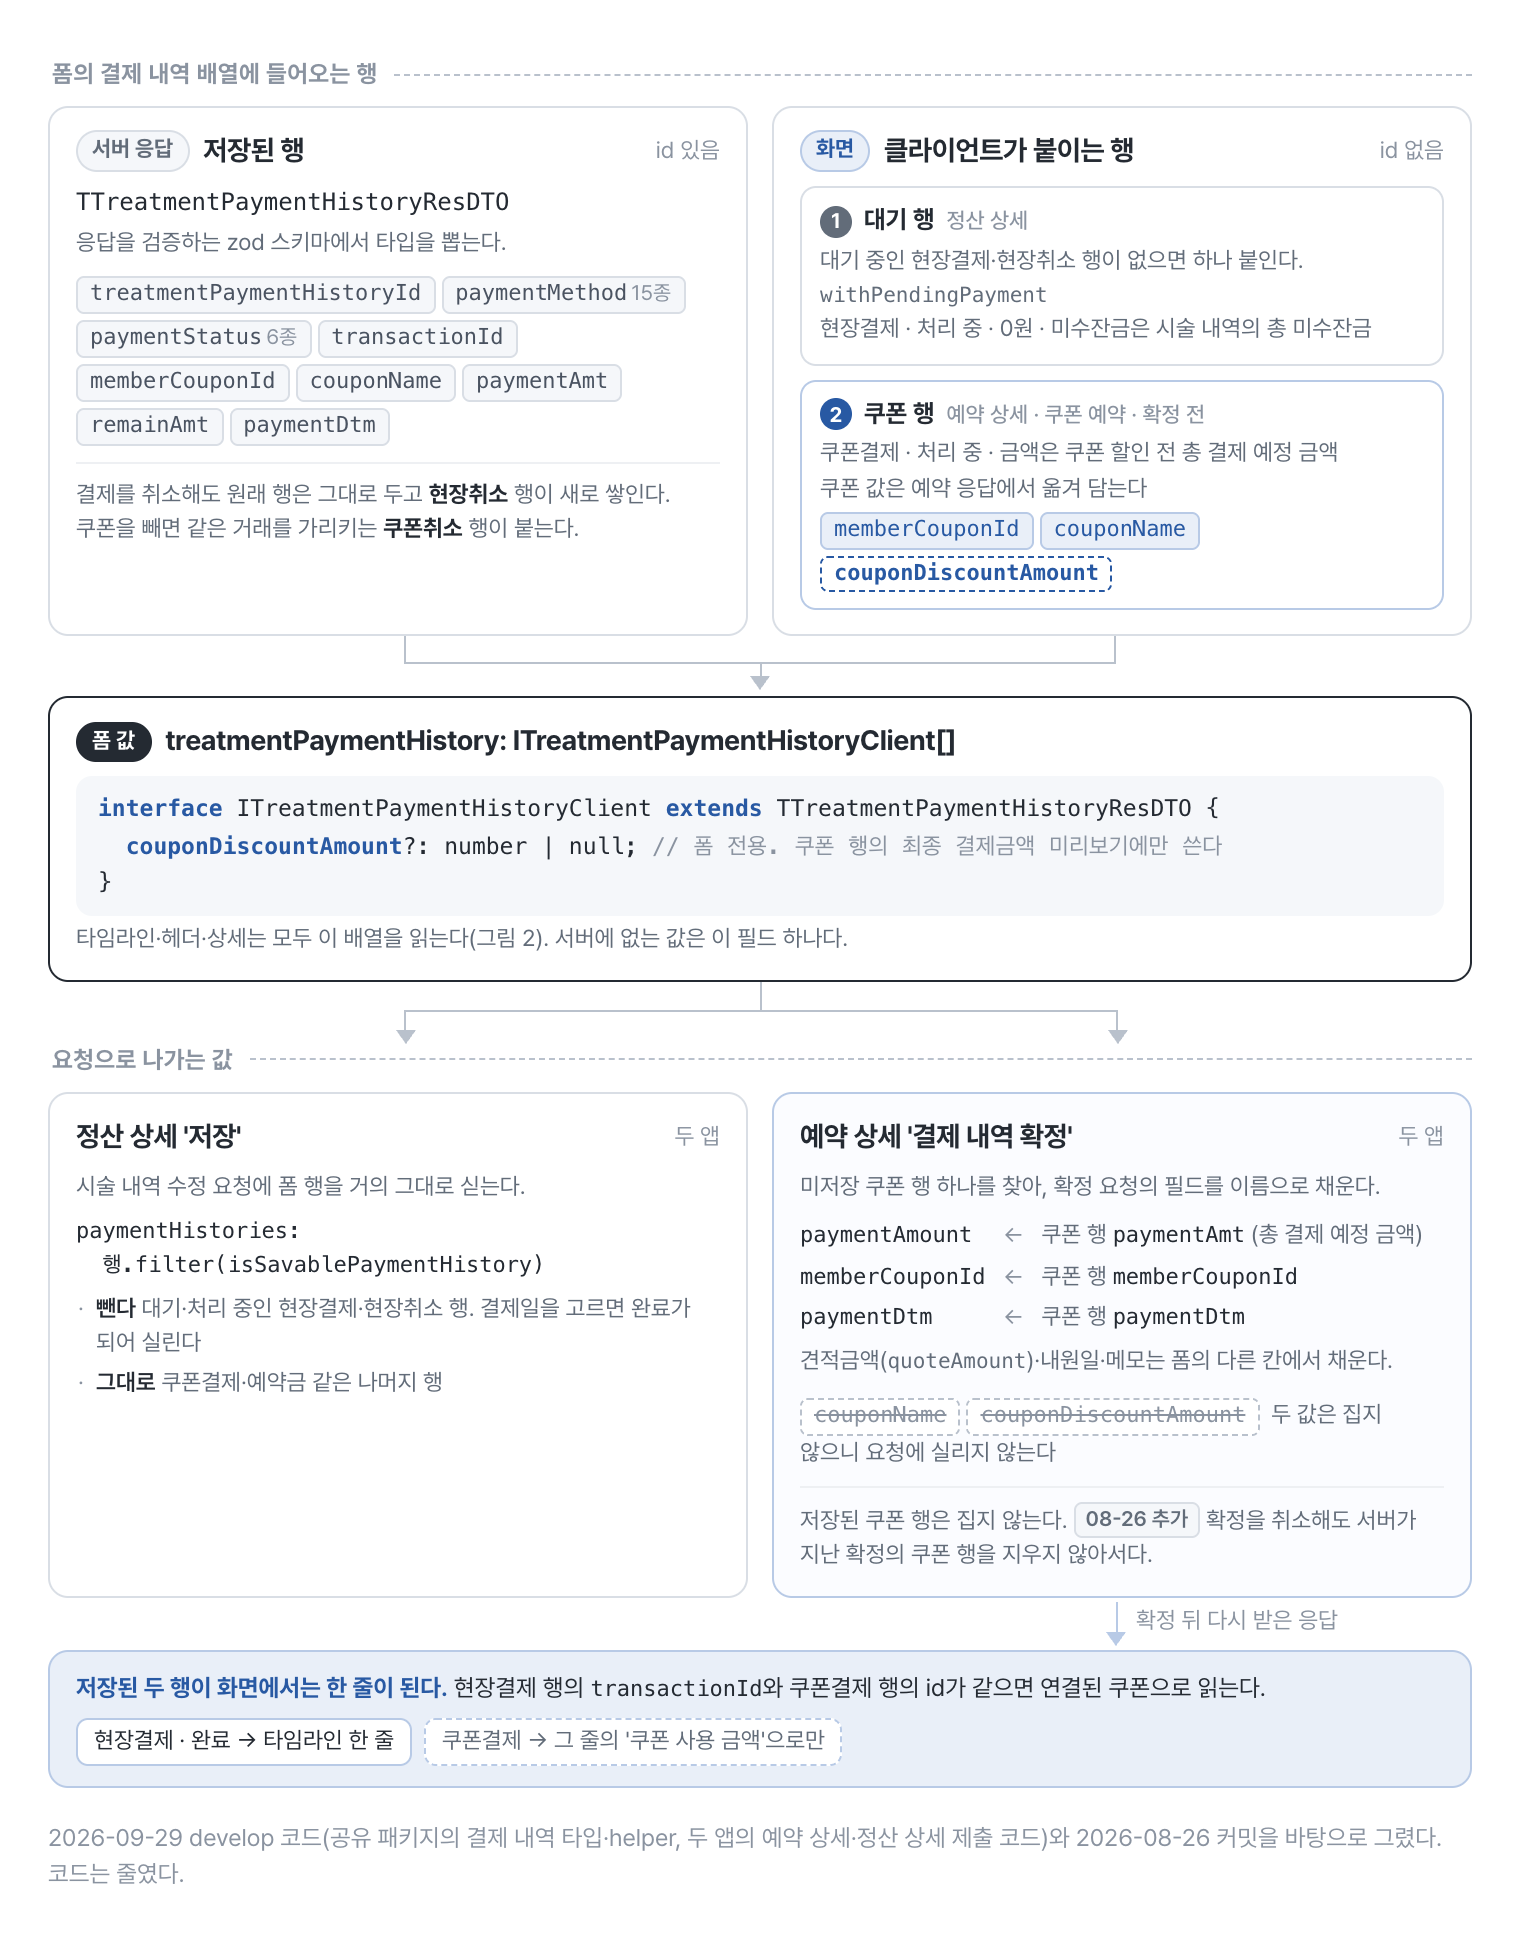
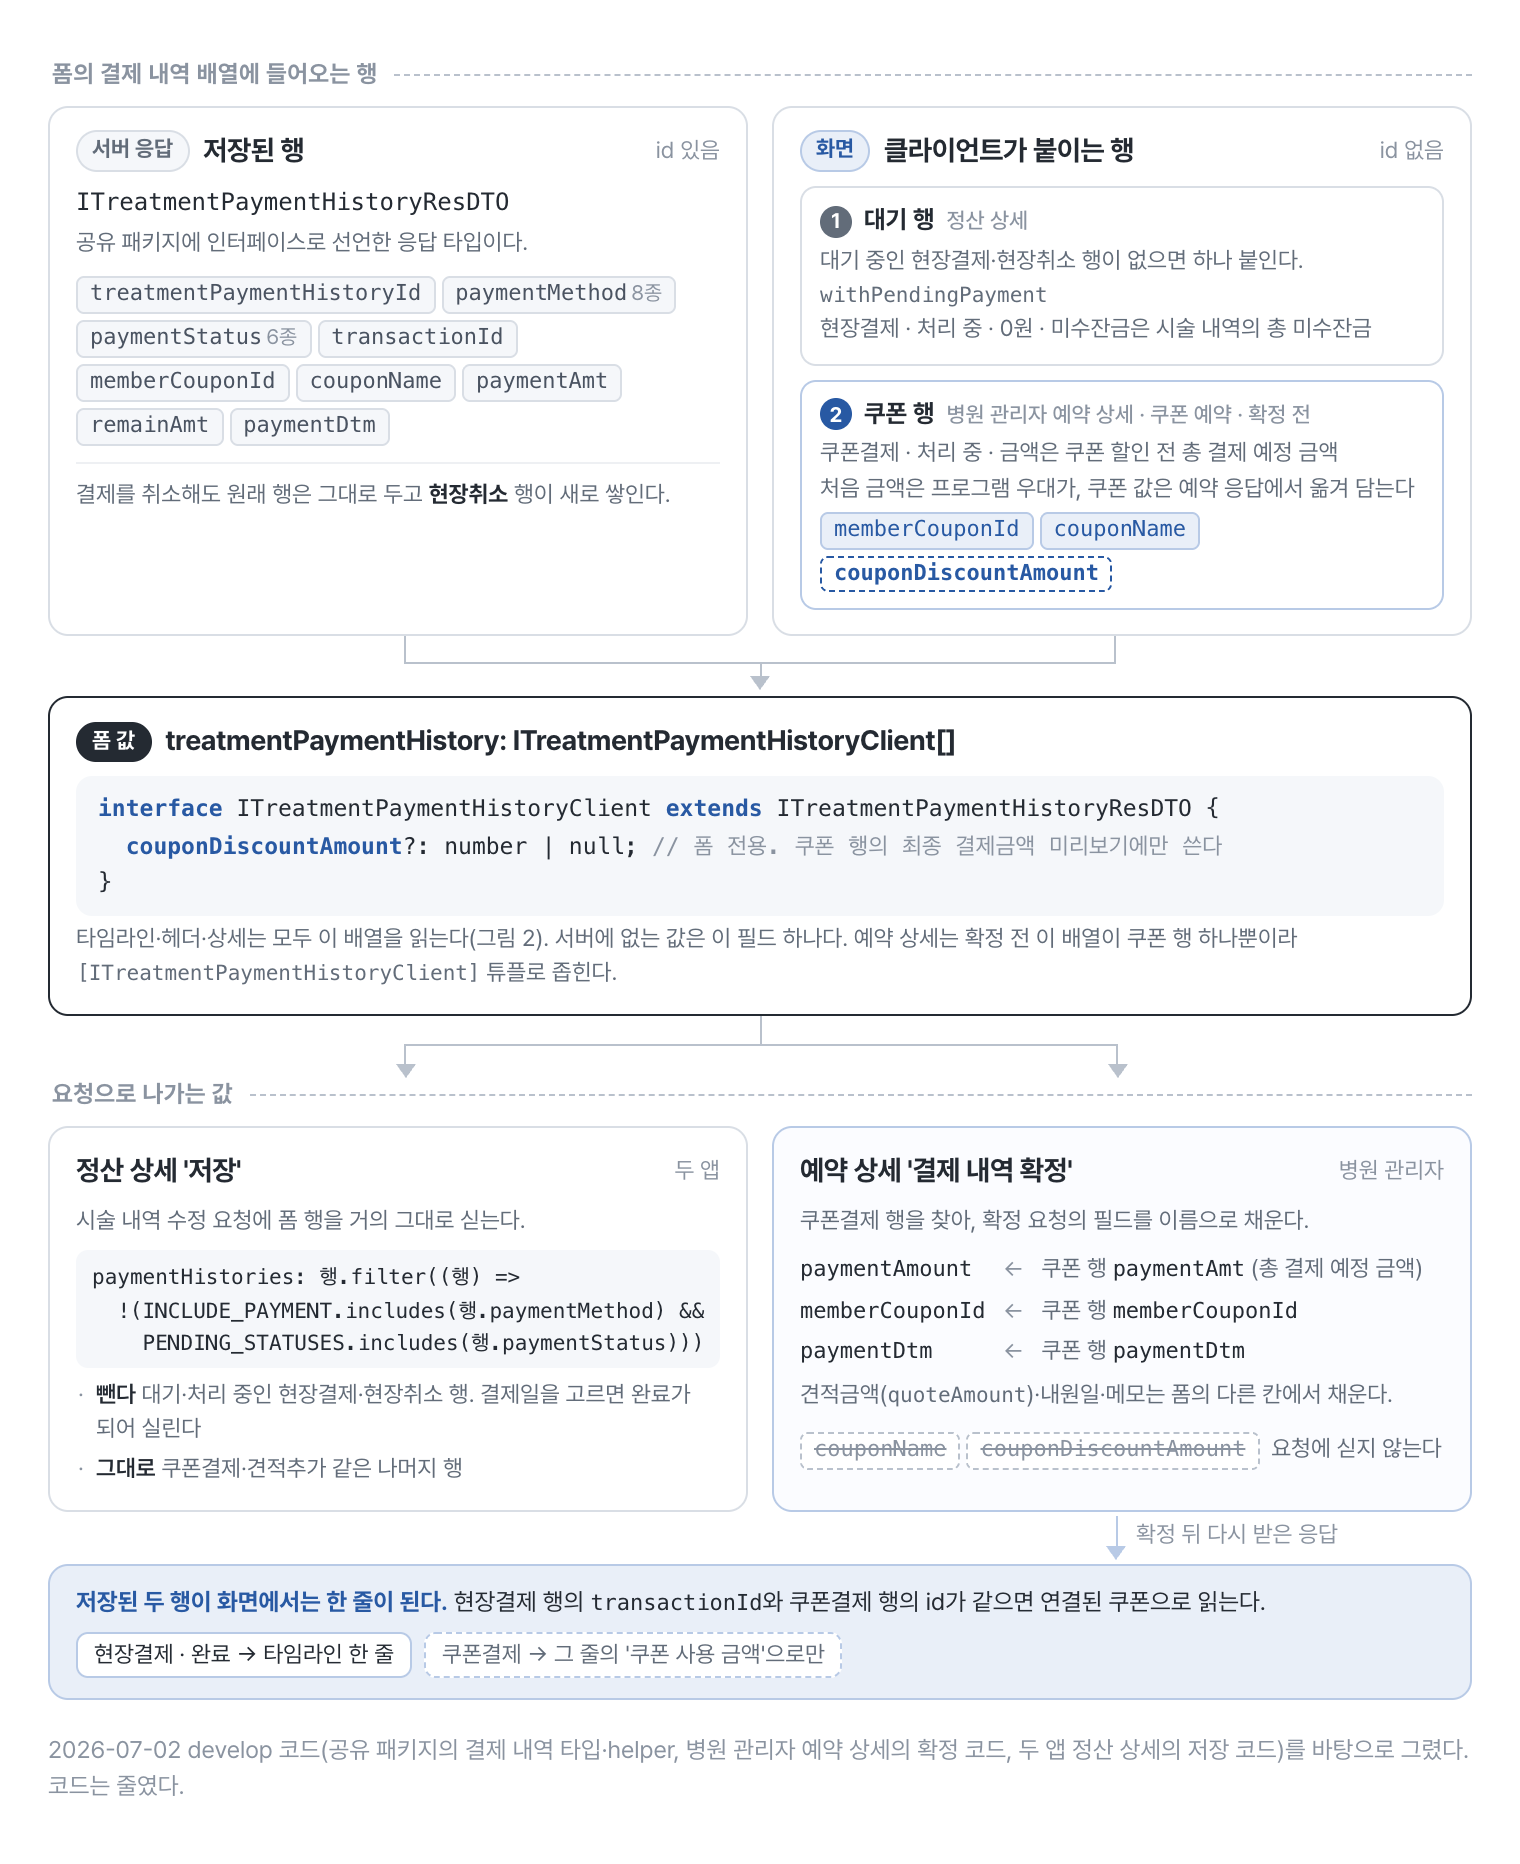
docs(blog): 결제 내역 행 출처 그림을 2026-07-02 develop 기준으로 맞춘다

diff --git a/blog/assets/figures/payment-history/src/01-row-sources.html b/blog/assets/figures/payment-history/src/01-row-sources.html
@@ -17,6 +17,8 @@
   .chip-src.client { background: var(--blue-soft); color: var(--blue); border: 1px solid var(--blue-line); }
   .chip-src.form { background: var(--ink); color: #fff; border: 1px solid var(--ink); }
 
+  .type.code-pre { white-space: pre; font-size: 10.5px; line-height: 1.55; background: var(--soft); border-radius: 6px; padding: 5px 8px; margin-top: 6px; }
+  .nw { white-space: nowrap; }
   .type { font-family: 'JetBrains Mono', 'SF Mono', Menlo, monospace; font-size: 12px; color: var(--ink); margin-top: 6px; }
   .small { font-size: 11.5px; color: var(--sub); line-height: 1.5; margin-top: 3px; }
   .small b { color: var(--ink); font-weight: 600; }
@@ -60,7 +62,6 @@
   .list li { font-size: 11.5px; color: var(--sub); line-height: 1.5; margin-top: 2px; padding-left: 10px; position: relative; }
   .list li::before { content: '·'; position: absolute; left: 1px; color: var(--faint); }
   .list li b { color: var(--ink); font-weight: 600; }
-  .date { display: inline-block; font-size: 10.5px; font-weight: 600; color: var(--sub); background: var(--soft); border: 1px solid var(--line); border-radius: 4px; padding: 0 5px; margin-left: 3px; vertical-align: 1px; white-space: nowrap; }
 
   .after { margin-top: 0; border: 1px solid var(--blue-line); background: var(--blue-soft); border-radius: 10px; padding: 9px 13px 10px; font-size: 12px; color: var(--ink); line-height: 1.55; }
   .after b { color: var(--blue); }
@@ -79,12 +80,12 @@
 <div class="two">
   <div class="box">
     <div class="head"><span class="chip-src server">서버 응답</span><b>저장된 행</b><span class="id">id 있음</span></div>
-    <div class="type">TTreatmentPaymentHistoryResDTO</div>
-    <p class="small">응답을 검증하는 zod 스키마에서 타입을 뽑는다.</p>
+    <div class="type">ITreatmentPaymentHistoryResDTO</div>
+    <p class="small">공유 패키지에 인터페이스로 선언한 응답 타입이다.</p>
     <div class="fields">
-      <span class="f">treatmentPaymentHistoryId</span><span class="f">paymentMethod<small>15종</small></span><span class="f">paymentStatus<small>6종</small></span><span class="f">transactionId</span><span class="f">memberCouponId</span><span class="f">couponName</span><span class="f">paymentAmt</span><span class="f">remainAmt</span><span class="f">paymentDtm</span>
+      <span class="f">treatmentPaymentHistoryId</span><span class="f">paymentMethod<small>8종</small></span><span class="f">paymentStatus<small>6종</small></span><span class="f">transactionId</span><span class="f">memberCouponId</span><span class="f">couponName</span><span class="f">paymentAmt</span><span class="f">remainAmt</span><span class="f">paymentDtm</span>
     </div>
-    <p class="note">결제를 취소해도 원래 행은 그대로 두고 <b style="color:var(--ink)">현장취소</b> 행이 새로 쌓인다. 쿠폰을 빼면 같은 거래를 가리키는 <b style="color:var(--ink)">쿠폰취소</b> 행이 붙는다.</p>
+    <p class="note">결제를 취소해도 원래 행은 그대로 두고 <b style="color:var(--ink)">현장취소</b> 행이 새로 쌓인다.</p>
   </div>
 
   <div class="box">
@@ -94,8 +95,8 @@
       <p class="small">대기 중인 현장결제·현장취소 행이 없으면 하나 붙인다. <code style="font-size:10.5px">withPendingPayment</code><br>현장결제 · 처리 중 · 0원 · 미수잔금은 시술 내역의 총 미수잔금</p>
     </div>
     <div class="made coupon">
-      <div class="made-h"><span class="num blue">2</span>쿠폰 행<span class="where">예약 상세 · 쿠폰 예약 · 확정 전</span></div>
-      <p class="small">쿠폰결제 · 처리 중 · 금액은 쿠폰 할인 전 총 결제 예정 금액<br>쿠폰 값은 예약 응답에서 옮겨 담는다</p>
+      <div class="made-h"><span class="num blue">2</span>쿠폰 행<span class="where">병원 관리자 예약 상세 · 쿠폰 예약 · 확정 전</span></div>
+      <p class="small">쿠폰결제 · 처리 중 · 금액은 쿠폰 할인 전 총 결제 예정 금액<br>처음 금액은 프로그램 우대가, 쿠폰 값은 예약 응답에서 옮겨 담는다</p>
       <span class="f blue">memberCouponId</span><span class="f blue">couponName</span><span class="f form">couponDiscountAmount</span>
     </div>
   </div>
@@ -105,10 +106,10 @@
 
 <div class="box core">
   <div class="head"><span class="chip-src form">폼 값</span><b>treatmentPaymentHistory: ITreatmentPaymentHistoryClient[]</b></div>
-<pre><span class="k">interface</span> ITreatmentPaymentHistoryClient <span class="k">extends</span> TTreatmentPaymentHistoryResDTO {
+<pre><span class="k">interface</span> ITreatmentPaymentHistoryClient <span class="k">extends</span> ITreatmentPaymentHistoryResDTO {
   <span class="add">couponDiscountAmount</span>?: number | null; <span class="c">// 폼 전용. 쿠폰 행의 최종 결제금액 미리보기에만 쓴다</span>
 }</pre>
-  <p class="small">타임라인·헤더·상세는 모두 이 배열을 읽는다(그림 2). 서버에 없는 값은 이 필드 하나다.</p>
+  <p class="small">타임라인·헤더·상세는 모두 이 배열을 읽는다(그림 2). 서버에 없는 값은 이 필드 하나다. 예약 상세는 확정 전 이 배열이 쿠폰 행 하나뿐이라 <code style="font-size:10.5px">[ITreatmentPaymentHistoryClient]</code> 튜플로 좁힌다.</p>
 </div>
 
 <div class="fan"><i class="l"></i><i class="r"></i></div>
@@ -118,24 +119,25 @@
   <div class="box">
     <div class="head"><b>정산 상세 '저장'</b><span class="id">두 앱</span></div>
     <p class="small" style="margin-top:6px">시술 내역 수정 요청에 폼 행을 거의 그대로 싣는다.</p>
-    <div class="type" style="font-size:11px">paymentHistories:<br>&nbsp;&nbsp;행.filter(isSavablePaymentHistory)</div>
+    <div class="type code-pre">paymentHistories: 행.filter((행) =&gt;
+  !(INCLUDE_PAYMENT.includes(행.paymentMethod) &amp;&amp;
+    PENDING_STATUSES.includes(행.paymentStatus)))</div>
     <ul class="list">
       <li><b>뺀다</b> 대기·처리 중인 현장결제·현장취소 행. 결제일을 고르면 완료가 되어 실린다</li>
-      <li><b>그대로</b> 쿠폰결제·예약금 같은 나머지 행</li>
+      <li><b>그대로</b> 쿠폰결제·견적추가 같은 나머지 행</li>
     </ul>
   </div>
 
   <div class="box coupon">
-    <div class="head"><b>예약 상세 '결제 내역 확정'</b><span class="id">두 앱</span></div>
-    <p class="small" style="margin-top:6px">미저장 쿠폰 행 하나를 찾아, 확정 요청의 필드를 이름으로 채운다.</p>
+    <div class="head"><b>예약 상세 '결제 내역 확정'</b><span class="id">병원 관리자</span></div>
+    <p class="small" style="margin-top:6px">쿠폰결제 행을 찾아, 확정 요청의 필드를 이름으로 채운다.</p>
     <div class="map">
       <code>paymentAmount</code><span class="arr">←</span><span>쿠폰 행 <code>paymentAmt</code> (총 결제 예정 금액)</span>
       <code>memberCouponId</code><span class="arr">←</span><span>쿠폰 행 <code>memberCouponId</code></span>
       <code>paymentDtm</code><span class="arr">←</span><span>쿠폰 행 <code>paymentDtm</code></span>
     </div>
     <p class="small" style="margin-top:4px">견적금액(<code style="font-size:10.5px">quoteAmount</code>)·내원일·메모는 폼의 다른 칸에서 채운다.</p>
-    <div class="dropline"><span class="f drop">couponName</span><span class="f drop">couponDiscountAmount</span> 두 값은 집지 않으니 요청에 실리지 않는다</div>
-    <p class="note">저장된 쿠폰 행은 집지 않는다.<span class="date">08-26 추가</span> 확정을 취소해도 서버가 지난 확정의 쿠폰 행을 지우지 않아서다.</p>
+    <div class="dropline"><span class="f drop">couponName</span><span class="f drop">couponDiscountAmount</span> <span class="nw">요청에 싣지 않는다</span></div>
   </div>
 </div>
 
@@ -145,5 +147,5 @@
   <div class="rows"><span class="r">현장결제 · 완료 → 타임라인 한 줄</span><span class="r hide">쿠폰결제 → 그 줄의 '쿠폰 사용 금액'으로만</span></div>
 </div>
 
-<p class="foot">2026-09-29 develop 코드(공유 패키지의 결제 내역 타입·helper, 두 앱의 예약 상세·정산 상세 제출 코드)와 2026-08-26 커밋을 바탕으로 그렸다. 코드는 줄였다.</p>
+<p class="foot">2026-07-02 develop 코드(공유 패키지의 결제 내역 타입·helper, 병원 관리자 예약 상세의 확정 코드, 두 앱 정산 상세의 저장 코드)를 바탕으로 그렸다. 코드는 줄였다.</p>
 </body></html>
